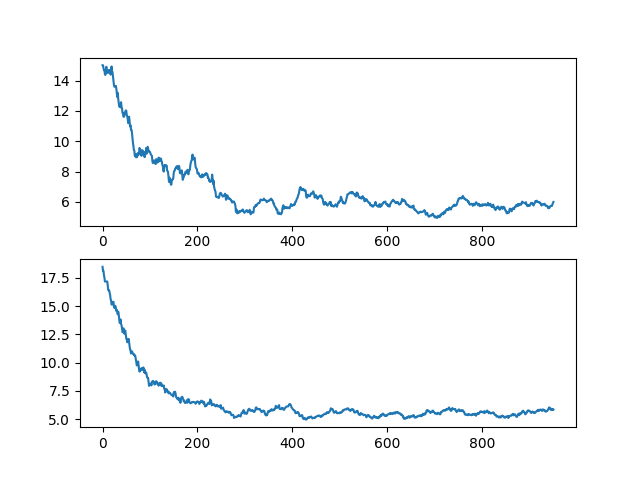
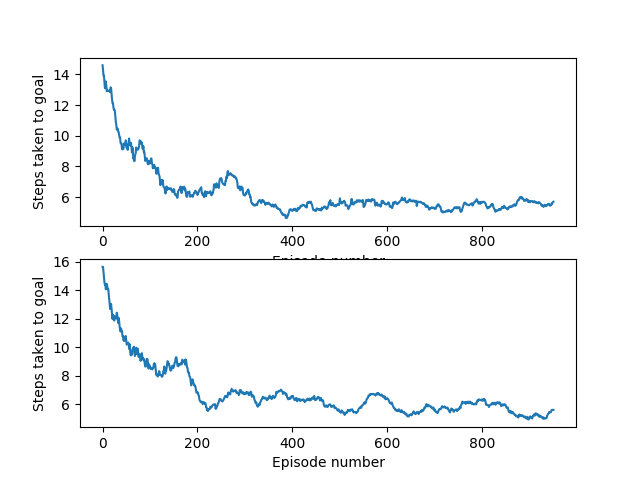
Done Q1

diff --git a/driver.py b/driver.py
@@ -20,6 +20,8 @@ NUM_PROCESSES = 6
 coloredlogs.install(level='WARN')
 coloredlogs.install(level='INFO', logger=getLogger('assignment.driver'))
 
+hr_environment = HomingRobot(10, 10, (5, 5), 10, 0)
+
 e_greedy_decay_policy_partial = partial(EpsilonGreedyDecay, epsilon=0.5)
 e_greedy_policy_partial = partial(EpsilonGreedyDecay, epsilon=0.1)
 basic_qs_partial = partial(BasicQs, initial_value=0,
@@ -40,9 +42,7 @@ def moving_average(a, n=3):
 
 
 def question1_single_curves(num_episodes=1000, max_episode_step=20,
-                            hr_environment=None, epsilon=0.001, avg_over=50):
-    if hr_environment is None:
-        hr_environment = HomingRobot(10, 10, (5, 5), 10, 0)
+                            epsilon=0.001, avg_over=50):
     egreedy_partial = partial(EpsilonGreedy, epsilon=epsilon)
     basic_qs_partial = partial(BasicQs, initial_value=0, learning_rate=0.1,
                                discount_rate=0.1)
@@ -55,12 +55,42 @@ def question1_single_curves(num_episodes=1000, max_episode_step=20,
 
     fig, (ax1, ax2) = plt.subplots(2, 1)
     ax1.plot(moving_average(step_curve_1, n=avg_over))
+    ax1.set_xlabel('Episode number')
+    ax1.set_ylabel('Steps taken to goal')
     ax2.plot(moving_average(step_curve_2, n=avg_over))
+    ax2.set_xlabel('Episode number')
+    ax2.set_ylabel('Steps taken to goal')
     return fig
 
 
+def question1_avg_curve(num_runs=100, num_episodes=1000, max_episode_step=20,
+                        epsilon=0.001, avg_over=50):
+    egreedy_partial = partial(EpsilonGreedy, epsilon=epsilon)
+    basic_qs_partial = partial(BasicQs, initial_value=0, learning_rate=0.1,
+                               discount_rate=0.1)
+    runs = SarsaMultipleRuns(num_runs, num_episodes, max_episode_step,
+                             hr_environment, egreedy_partial, basic_qs_partial)
+
+    step_curves, _ = runs.run(NUM_PROCESSES)
+    xs = np.arange(step_curves.shape[1])
+
+    step_curves = step_curves[:, ::10]
+    xs = xs[::10]
+
+    mean_step_curve = np.mean(step_curves, axis=0)
+    errorbars_step_curve = (np.std(step_curves, axis=0) /
+                            np.sqrt(step_curves.shape[0]))
+
+    fig, step_axes = plt.subplots(1, 1)
+    step_axes.errorbar(x=xs,
+                       y=mean_step_curve,
+                       yerr=errorbars_step_curve)
+    step_axes.set_xlabel('Episode number')
+    step_axes.set_ylabel('Steps taken to goal')
+    plt.show()
+
 def question3_lr_dr(num_runs=20, num_episodes=200, max_episode_step=20,
-                    hr_environment=None, epsilon=0.1, trace_decay_rate=0.5):
+                    epsilon=0.1, trace_decay_rate=0.5):
     """Optimise learning rate, discount rate"""
 
     logger = getLogger('assignment.driver.q3.lr_dr')
@@ -71,9 +101,6 @@ def question3_lr_dr(num_runs=20, num_episodes=200, max_episode_step=20,
     }
 
     # TODO graph epsilon and trace_decay_rate
-
-    if hr_environment is None:
-        hr_environment = HomingRobot(10, 10, (5, 5), 10, 0)
 
     detailed_results = []
     total_combinations = len(list(product(*params.values())))
@@ -104,12 +131,10 @@ def question3_lr_dr(num_runs=20, num_episodes=200, max_episode_step=20,
 
 
 def question3_epsilon(num_runs=1000, num_episodes=200, max_episode_step=20,
-                      hr_environment=None, learning_rate=2, discount_rate=0.6,
+                      learning_rate=2, discount_rate=0.6,
                       trace_decay_rate=0.5):
     logger = getLogger('assignment.driver.q3.epsilon')
 
-    if hr_environment is None:
-        hr_environment = HomingRobot(10, 10, (5, 5), 10, 0)
     qs_partial = partial(NeuralQs, learning_rate=learning_rate,
                          discount_rate=discount_rate)
 
@@ -146,12 +171,9 @@ def question3_epsilon(num_runs=1000, num_episodes=200, max_episode_step=20,
 
 
 def question3_tdr(num_runs=1000, num_episodes=200, max_episode_step=20,
-                  hr_environment=None, learning_rate=2, discount_rate=0.6,
-                  epsilon=1):
+                  learning_rate=2, discount_rate=0.6, epsilon=1):
     logger = getLogger('assignment.driver.q3.epsilon')
 
-    if hr_environment is None:
-        hr_environment = HomingRobot(10, 10, (5, 5), 10, 0)
     policy_partial = partial(EpsilonGreedyDecay, epsilon=epsilon)
 
     trace_decay_rates = [0, 0.2, 0.4, 0.5, 0.7, 0.9]
@@ -191,32 +213,10 @@ def image_monkey():
 
 
 def homing_robot(num_runs=100):
-    hr = HomingRobot(10, 10, (5, 5), 10, 0)
-    sarsa_runs = SarsaMultipleRuns(num_runs, 200, 30, hr,
+    sarsa_runs = SarsaMultipleRuns(num_runs, 200, 30, hr_environment,
                                    e_greedy_decay_policy_partial,
                                    nn_qs_eligibility_partial)
     return sarsa_runs
-
-
-def plot_runs(runs):
-    step_curves, reward_curves = runs.run(NUM_PROCESSES)
-
-    mean_step_curve = np.mean(step_curves, axis=0)
-    errorbars_step_curve = (np.std(step_curves, axis=0) /
-                            np.sqrt(step_curves.shape[0]))
-
-    mean_reward_curve = np.mean(reward_curves, axis=0)
-    errorbars_reward_curve = (np.std(reward_curves, axis=0) /
-                              np.sqrt(reward_curves.shape[0]))
-
-    fig, (step_axes, reward_axes) = plt.subplots(2, 1)
-    step_axes.errorbar(x=np.arange(step_curves.shape[1]),
-                       y=mean_step_curve,
-                       yerr=errorbars_step_curve)
-    reward_axes.errorbar(x=np.arange(reward_curves.shape[1]),
-                         y=mean_reward_curve,
-                         yerr=errorbars_reward_curve)
-    plt.show()
 
 # if __name__ == '__main__':
 #     runs = homing_robot()

diff --git a/report/report.tex b/report/report.tex
@@ -13,6 +13,11 @@
 \usepackage{graphicx} % support the \includegraphics command and options
 \usepackage{bm}
 
+\usepackage{chngcntr}
+\counterwithin{table}{section}
+\counterwithin{figure}{section}
+\counterwithin{equation}{section}
+
 \title{Reinforcement learning with TD(λ) and a Neural Network}
 \author{Student 120133998, University of Sheffield}
 \date{\today}
@@ -54,15 +59,15 @@ denoted $t_{max}$) is reached, or it reaches its charging station at $(5, 5)$.
 outlined in \cite[Chapter~6]{Sutton1998} with an $\epsilon$-greedy policy.  We
 follow their definition of `discounted return' (denoted $R_t$) as the sum of
 expected rewards (denoted $r_t$) to be obtained under policy $\pi$, with each
-future reward being geometrically discounted by a factor of $\gamma$, i.e.s
+future reward being geometrically discounted by a factor of $\gamma$, i.e.
 \begin{align}
 R_t &= r_t + \gamma r_{t+1} + \gamma^2 r_{t+2} + \ldots \nonumber \\
 \text{or } R_t &= \sum_{i=0}^{\infty}{\gamma^ir_{t+i}} \\
 &\text{where }0 \le \gamma < 1 \nonumber
 \end{align}
 
-(Note that we may relax the restriction to $0 \le \gamma \le 1$ if we know that
-the sequence ($t_n$) eventually becomes 0.)
+(Note that in general we may relax the restriction to $0 \le \gamma \le 1$ if we
+know that the sequence ($t_n$) eventually becomes 0.)
 
 The `Q-value' of a particular state-action pair, denoted $Q^\pi(s, a)$ is the
 expected discounted return after taking action $a$ when in state $s$ and
@@ -90,7 +95,38 @@ select the action with the best Q-value, as estimated by Sarsa, and with
 proability $\epsilon$ we choose randomly between the actions.  This allows a
 certain degree of `exploring' while maintaining a general stability.
 
-\section{Learning curves and evaluation} .
+\section{Learning curves and evaluation} Before moving on to a more in-depth
+discussion, we briefly define the term `learning curve': in the context of our
+task, we will define it as the number of steps taken to achieve the goal (i.e.
+move to position $(5, 5)$) per episode.  Since with each episode, the task is
+expected to be performed increasingly more efficiently, i.e. that the number of
+steps taken to reach the goal should be decreasing, we measure the effectiveness
+of an algorithm or set of parameters by the steepness and eventual resting point
+of the decreasing learning curve.
+
+% TODO check the "usually S = 100" here
+Presented in \autoref{fig:q1_single} are two example learning curves using the
+$\epsilon$-greedy policy.  Since there is an element of randomness in
+$\epsilon$-greedy, and also in the choice of initial position of the robot in
+the environment, the learning curve itself is non-deterministic.  To mitigate
+this uncertainty, we typically average our values over a number of runs; in this
+investigation we denote this number $S$ and usually take $S = 100$.  In
+\autoref{fig:q1_avg} is shown an average learning curve with the same parameters
+as in \autoref{fig:q1_single}, with $S = 100$ and error bars shown.  All further
+learning curve graphs in this report will be of averaged learning
+curves.\footnote{This answers Question 1.}
+
+\begin{figure}
+  \includegraphics[width=0.49\textwidth]{figures/q1_figure_single.png}
+  \caption{Two learning curves, 100-point moving average}
+  \label{fig:q1_single}
+\end{figure}
+
+\begin{figure}
+  \includegraphics[width=0.49\textwidth]{figures/q1_figure_avg.png}
+  \caption{Average learning curve, sampled every 10 data points}
+  \label{fig:q1_avg}
+\end{figure}
 
 \section{Extensions} .
 
@@ -114,7 +150,38 @@ certain degree of `exploring' while maintaining a general stability.
 \onecolumn \appendix
 
 \section{Tables}
-\begin{table}
+\begin{table}[H]
+  \centering
+  \begin{tabular}{c | c c c c c c c c c c c c}
+    \hline
+    & $S$ & $E$ & $t_{max}$ & $\epsilon$ decaying? & $\epsilon$ & $\alpha$ &
+      $\gamma$ & Trace? & $\lambda$ & ANN? \\
+    \hline
+    \autoref{fig:q1_single} & N/A & 1000 & 20 & No & 0.001 & 0.1 & 0.1 & No &
+      N/A & No \\
+    \autoref{fig:q1_avg} & 100 & 1000 & 20 & No & 0.001 & 0.1 & 0.1 & No &
+      N/A & No \\
+    \hline
+  \end{tabular}
+  \caption{Parameters for figures generated.}
+  \label{tab:parameters}
+\end{table}
+
+\begin{itemize*}
+  \item $S$ denotes the number of runs that the figure is averaged over
+  \item $E$ denotes the number of episodes used in each run
+  \item $t_{max}$ denotes the maximum number of steps in any episode
+  \item `$\epsilon$ decaying?' denotes whether a decaying $\epsilon$-greedy
+    policy was used
+  \item $\epsilon$ is the parameter of the $\epsilon$-greedy model
+  \item $\alpha$ is the learning rate
+  \item $\gamma$ is the discount rate
+  \item `Trace?' denotes whether an eligibility trace was used
+  \item $\lambda$ is the trace decay rate
+  \item `ANN?' denotes whether an artificial neural network was used
+\end{itemize*}
+
+\begin{table}[H]
   \centering
   \begin{tabular}{r | c c c c c c c c c c}
     \hline
